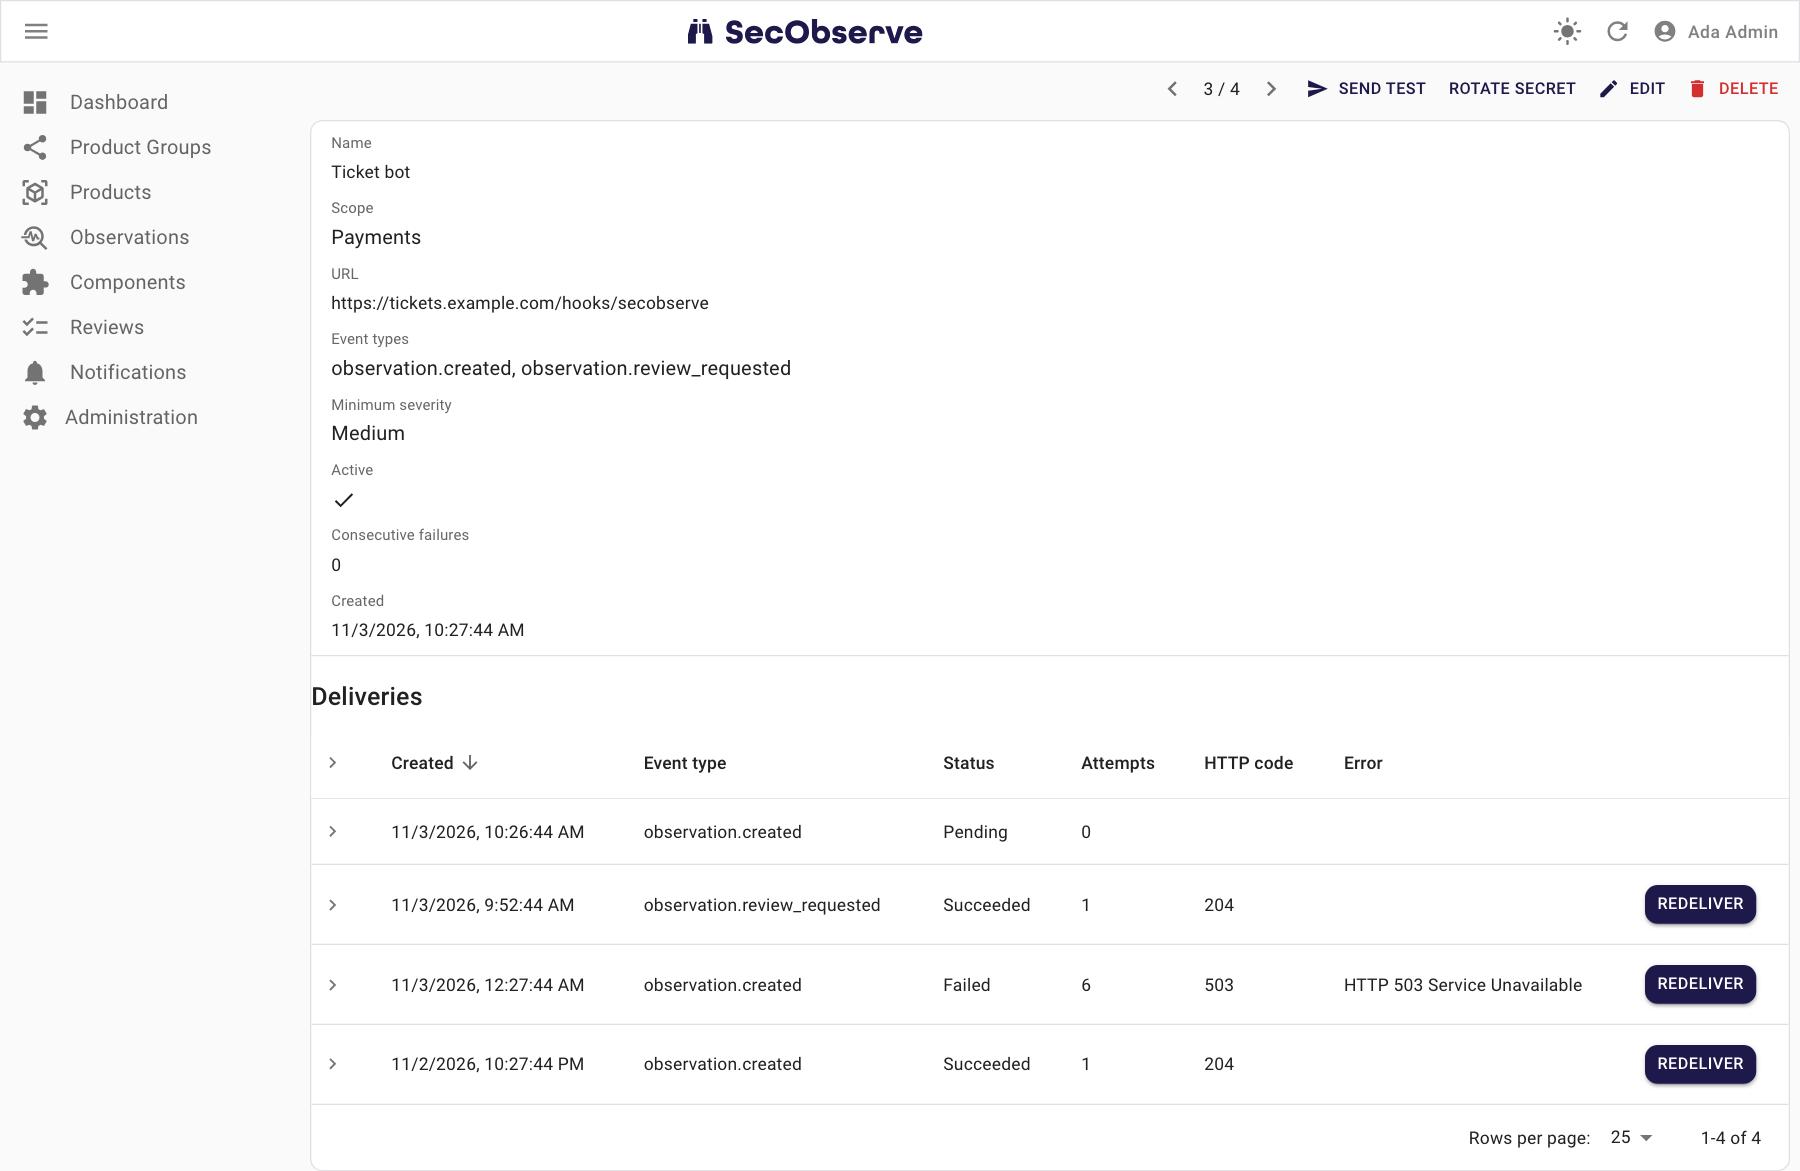
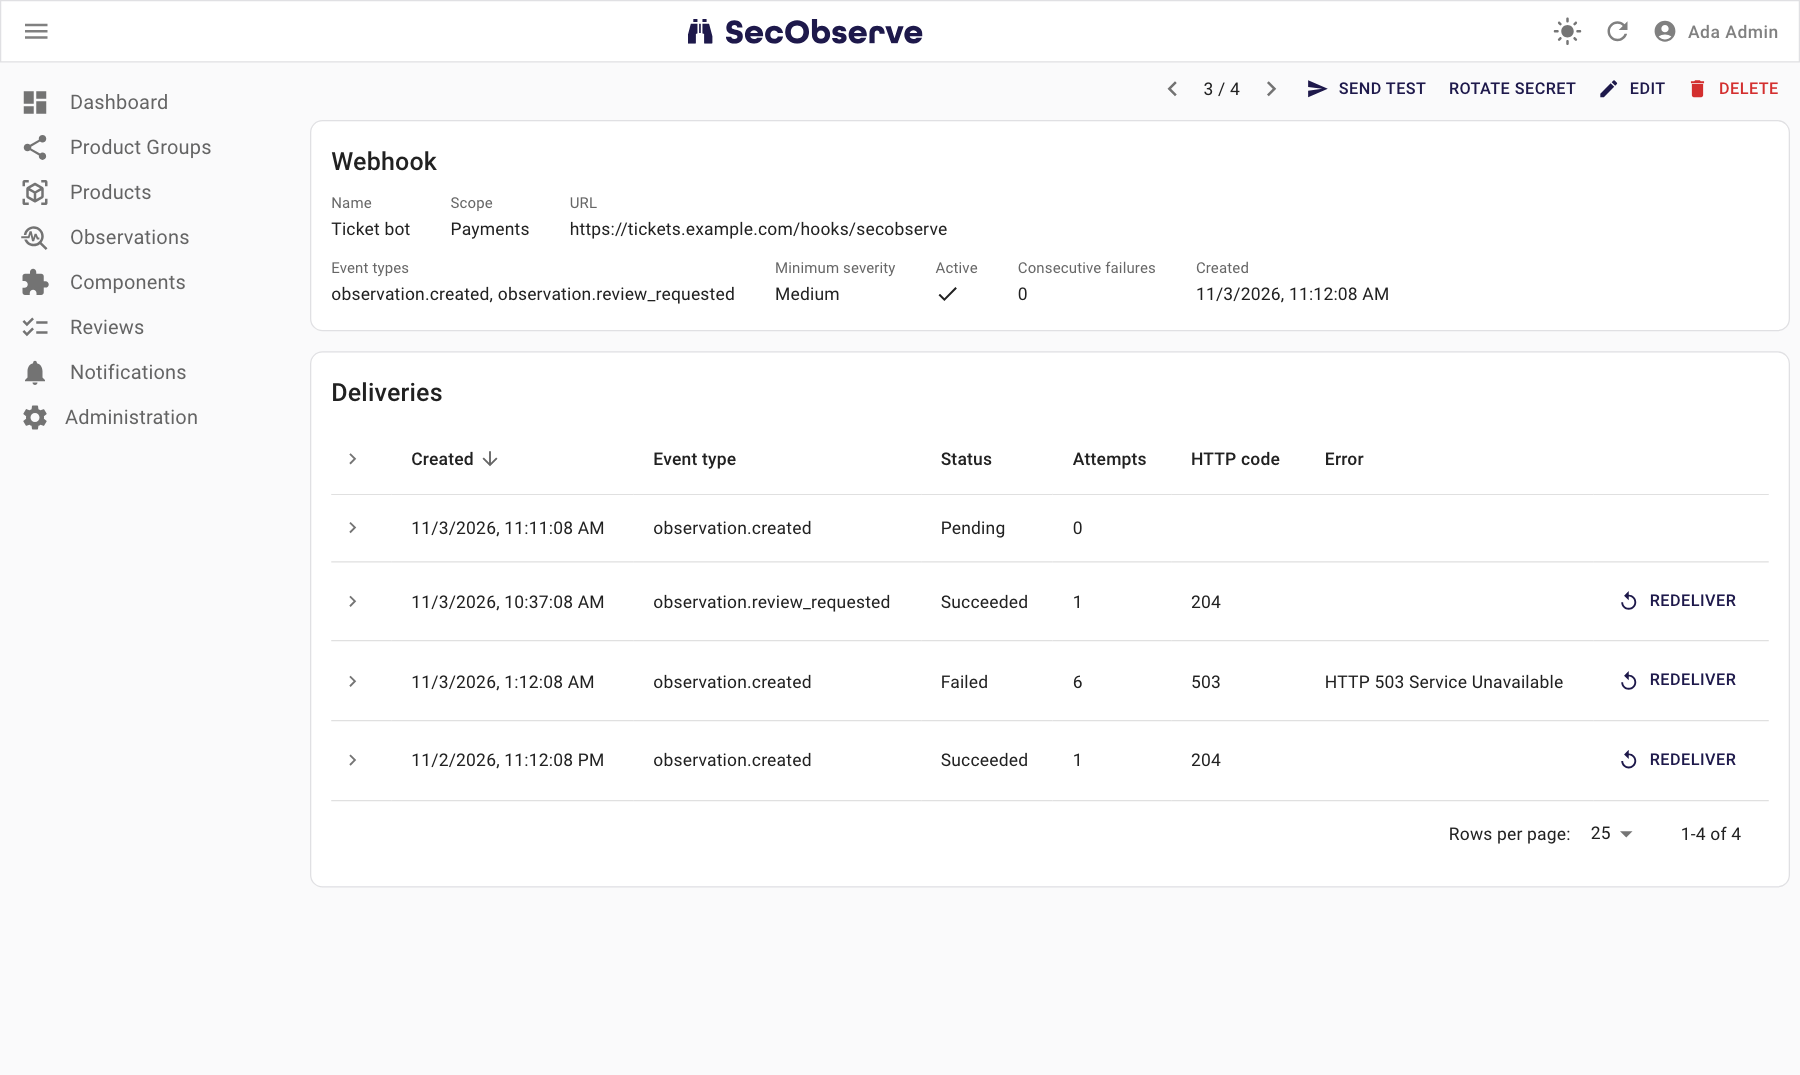
fix(frontend): move webhooks under the product settings and tidy the webhook page
Webhooks are configuration like API configurations, so they belong in the Settings menu of a product. The webhook page now uses one section per topic and plain buttons, so delivery rows keep an even height.

diff --git a/frontend/src/notifications/webhooks/WebhookShow.tsx b/frontend/src/notifications/webhooks/WebhookShow.tsx
@@ -1,12 +1,13 @@
 import SendIcon from "@mui/icons-material/Send";
-import { Button, Divider, Stack, Typography } from "@mui/material";
-import { useState } from "react";
+import { Box, Button, Paper, Stack, Typography } from "@mui/material";
+import { Fragment, useState } from "react";
 import {
     BooleanField,
     Confirm,
+    FunctionField,
+    Labeled,
     PrevNextButtons,
     Show,
-    SimpleShowLayout,
     TextField,
     TopToolbar,
     WithRecord,
@@ -110,32 +111,64 @@ const ShowActions = () => {
     );
 };
 
-const WebhookShow = () => (
-    <Show actions={<ShowActions />}>
-        <WithRecord
-            render={(webhook: Webhook) => (
-                <>
-                    <SimpleShowLayout>
-                        <TextField source="name" />
-                        <WithRecord label="Scope" render={(w: Webhook) => w.product_data?.name ?? "Global"} />
-                        <TextField source="url" label="URL" />
-                        <WithRecord label="Event types" render={(w: Webhook) => w.event_types.join(", ")} />
-                        <WithRecord label="Minimum severity" render={(w: Webhook) => w.min_severity || "All"} />
-                        <BooleanField source="active" />
-                        <TextField source="consecutive_failures" label="Consecutive failures" />
-                        {webhook.consecutive_failures > 0 && webhook.next_attempt_at && (
-                            <DateField source="next_attempt_at" label="Paused until" showTime />
-                        )}
-                        <DateField source="created" showTime />
-                    </SimpleShowLayout>
-                    <Divider sx={{ marginBottom: 2 }} />
+const WebhookComponent = () => (
+    <WithRecord
+        render={(webhook: Webhook) => (
+            <Box sx={{ width: "100%" }}>
+                <Paper sx={{ marginBottom: 2, padding: 2 }}>
+                    <Typography variant="h6" sx={{ marginBottom: 1 }}>
+                        Webhook
+                    </Typography>
+                    <Stack spacing={1}>
+                        <Stack direction="row" spacing={4} useFlexGap sx={{ flexWrap: "wrap" }}>
+                            <Labeled label="Name">
+                                <TextField source="name" />
+                            </Labeled>
+                            <Labeled label="Scope">
+                                <FunctionField render={(w: Webhook) => w.product_data?.name ?? "Global"} />
+                            </Labeled>
+                            <Labeled label="URL">
+                                <TextField source="url" />
+                            </Labeled>
+                        </Stack>
+                        <Stack direction="row" spacing={4} useFlexGap sx={{ flexWrap: "wrap" }}>
+                            <Labeled label="Event types">
+                                <FunctionField render={(w: Webhook) => w.event_types.join(", ")} />
+                            </Labeled>
+                            <Labeled label="Minimum severity">
+                                <FunctionField render={(w: Webhook) => w.min_severity || "All"} />
+                            </Labeled>
+                            <Labeled label="Active">
+                                <BooleanField source="active" />
+                            </Labeled>
+                            <Labeled label="Consecutive failures">
+                                <TextField source="consecutive_failures" />
+                            </Labeled>
+                            {webhook.consecutive_failures > 0 && webhook.next_attempt_at && (
+                                <Labeled label="Paused until">
+                                    <DateField source="next_attempt_at" showTime />
+                                </Labeled>
+                            )}
+                            <Labeled label="Created">
+                                <DateField source="created" showTime />
+                            </Labeled>
+                        </Stack>
+                    </Stack>
+                </Paper>
+                <Paper sx={{ marginBottom: 2, padding: 2 }}>
                     <Typography variant="h6" sx={{ marginBottom: 1 }}>
                         Deliveries
                     </Typography>
                     <WebhookDeliveryEmbeddedList webhook={webhook} canRedeliver={canEditWebhook(webhook)} />
-                </>
-            )}
-        />
+                </Paper>
+            </Box>
+        )}
+    />
+);
+
+const WebhookShow = () => (
+    <Show actions={<ShowActions />} component={WebhookComponent}>
+        <Fragment />
     </Show>
 );
 

diff --git a/frontend/src/core/products/ProductShow.tsx b/frontend/src/core/products/ProductShow.tsx
@@ -80,7 +80,7 @@ import ProductHeader from "./ProductHeader";
 import ProductReviews from "./ProductReviews";
 import ProductShowProduct from "./ProductShowProduct";
 
-const SETTINGS_PATHS = ["settings", "rules", "api_configurations", "members", "api_token", "notifications"];
+const SETTINGS_PATHS = ["settings", "rules", "api_configurations", "members", "api_token", "notifications", "webhooks"];
 
 type ShowActionsProps = {
     filter: any;
@@ -273,12 +273,6 @@ const ProductShow = () => {
                                     )}
                                     <ApiConfigurationEmbeddedList product={product} />
                                 </Tab>
-                                <Tab label="Webhooks" path="webhooks" icon={<WebhookIcon />}>
-                                    {product?.permissions?.includes(PERMISSION_WEBHOOK_CREATE) && (
-                                        <WebhookCreate product={product} />
-                                    )}
-                                    <WebhookEmbeddedList product={product} />
-                                </Tab>
                                 <Tab label="Members" path="members" icon={<PeopleAltIcon />}>
                                     <Typography variant="h6">User members</Typography>
                                     {product?.permissions?.includes(PERMISSION_PRODUCT_MEMBER_CREATE) && (
@@ -301,6 +295,12 @@ const ProductShow = () => {
                                 </Tab>
                                 <Tab label="Notifications" path="notifications" icon={<notifications.icon />}>
                                     <ProductNotificationSettings product={product} />
+                                </Tab>
+                                <Tab label="Webhooks" path="webhooks" icon={<WebhookIcon />}>
+                                    {product?.permissions?.includes(PERMISSION_WEBHOOK_CREATE) && (
+                                        <WebhookCreate product={product} />
+                                    )}
+                                    <WebhookEmbeddedList product={product} />
                                 </Tab>
                             </TabbedShowLayout>
                         )}

diff --git a/frontend/src/core/product_groups/ProductGroupShow.tsx b/frontend/src/core/product_groups/ProductGroupShow.tsx
@@ -145,12 +145,6 @@ const ProductGroupShow = () => {
                                 </Stack>
                                 <ProductRuleEmbeddedList product={product_group} />
                             </Tab>
-                            <Tab label="Webhooks" path="webhooks" icon={<WebhookIcon />}>
-                                {product_group?.permissions?.includes(PERMISSION_WEBHOOK_CREATE) && (
-                                    <WebhookCreate product={product_group} />
-                                )}
-                                <WebhookEmbeddedList product={product_group} />
-                            </Tab>
                             <Tab label="Members" path="members" icon={<PeopleAltIcon />}>
                                 <Typography variant="h6" sx={{ marginBottom: 1 }}>
                                     User members
@@ -177,6 +171,12 @@ const ProductGroupShow = () => {
                             </Tab>
                             <Tab label="Notifications" path="notifications" icon={<notifications.icon />}>
                                 <ProductNotificationSettings product={product_group} is_product_group={true} />
+                            </Tab>
+                            <Tab label="Webhooks" path="webhooks" icon={<WebhookIcon />}>
+                                {product_group?.permissions?.includes(PERMISSION_WEBHOOK_CREATE) && (
+                                    <WebhookCreate product={product_group} />
+                                )}
+                                <WebhookEmbeddedList product={product_group} />
                             </Tab>
                         </TabbedShowLayout>
                     )}

diff --git a/frontend/src/notifications/webhooks/WebhookDeliveryEmbeddedList.tsx b/frontend/src/notifications/webhooks/WebhookDeliveryEmbeddedList.tsx
@@ -1,3 +1,4 @@
+import ReplayIcon from "@mui/icons-material/Replay";
 import { Button } from "@mui/material";
 import { MouseEvent } from "react";
 import {
@@ -54,7 +55,7 @@ const Redeliver = ({ delivery }: { delivery: WebhookDelivery }) => {
     };
 
     return (
-        <Button size="small" variant="contained" onClick={handleClick} sx={{ fontSize: "0.8125rem" }}>
+        <Button size="small" onClick={handleClick} startIcon={<ReplayIcon />}>
             Redeliver
         </Button>
     );

diff --git a/docs/integrations/webhooks.md b/docs/integrations/webhooks.md
@@ -6,7 +6,7 @@ Messages for MS Teams, Slack and email are described in [Notification channels](
 
 ## Set up a webhook
 
-The webhooks of a product or product group are in its **Webhooks** tab.
+The webhooks of a product are in **Settings → Webhooks** of the product, those of a product group in its **Webhooks** tab.
 Global webhooks, which get the events of all products, are in **Administration → Webhooks**.
 
 ![Webhooks of a product](../assets/images/screenshot_webhooks_product.png)
